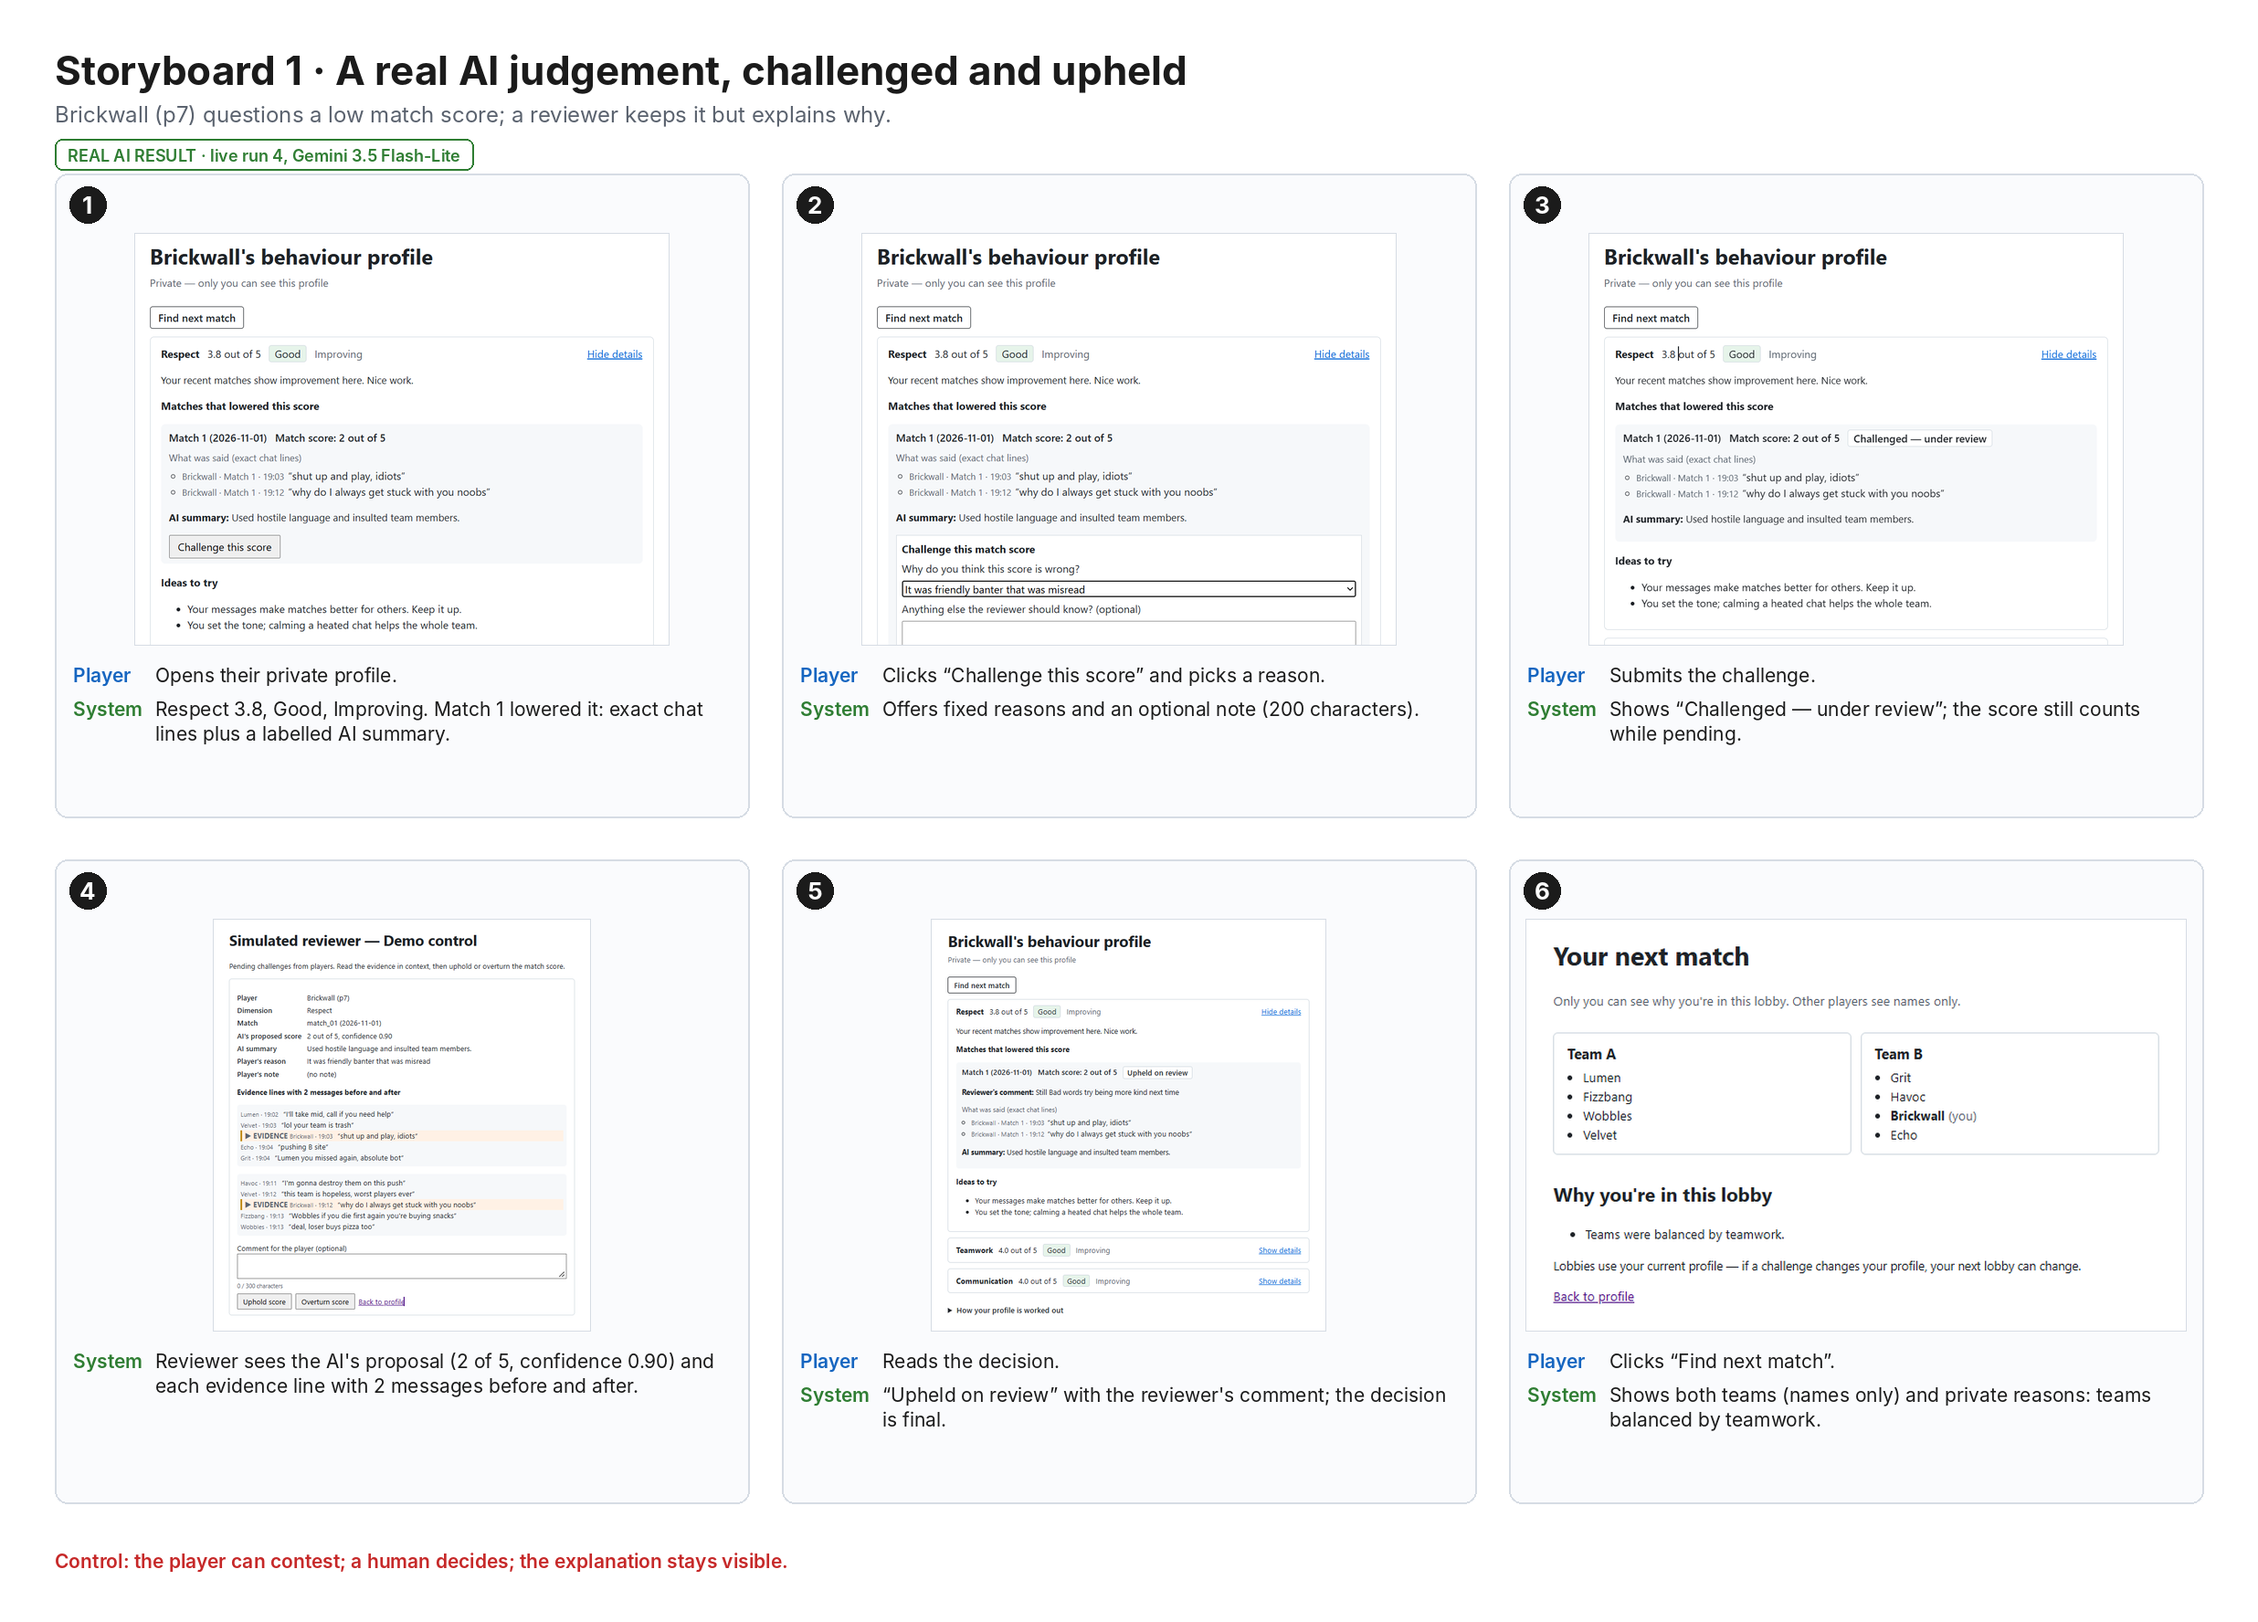
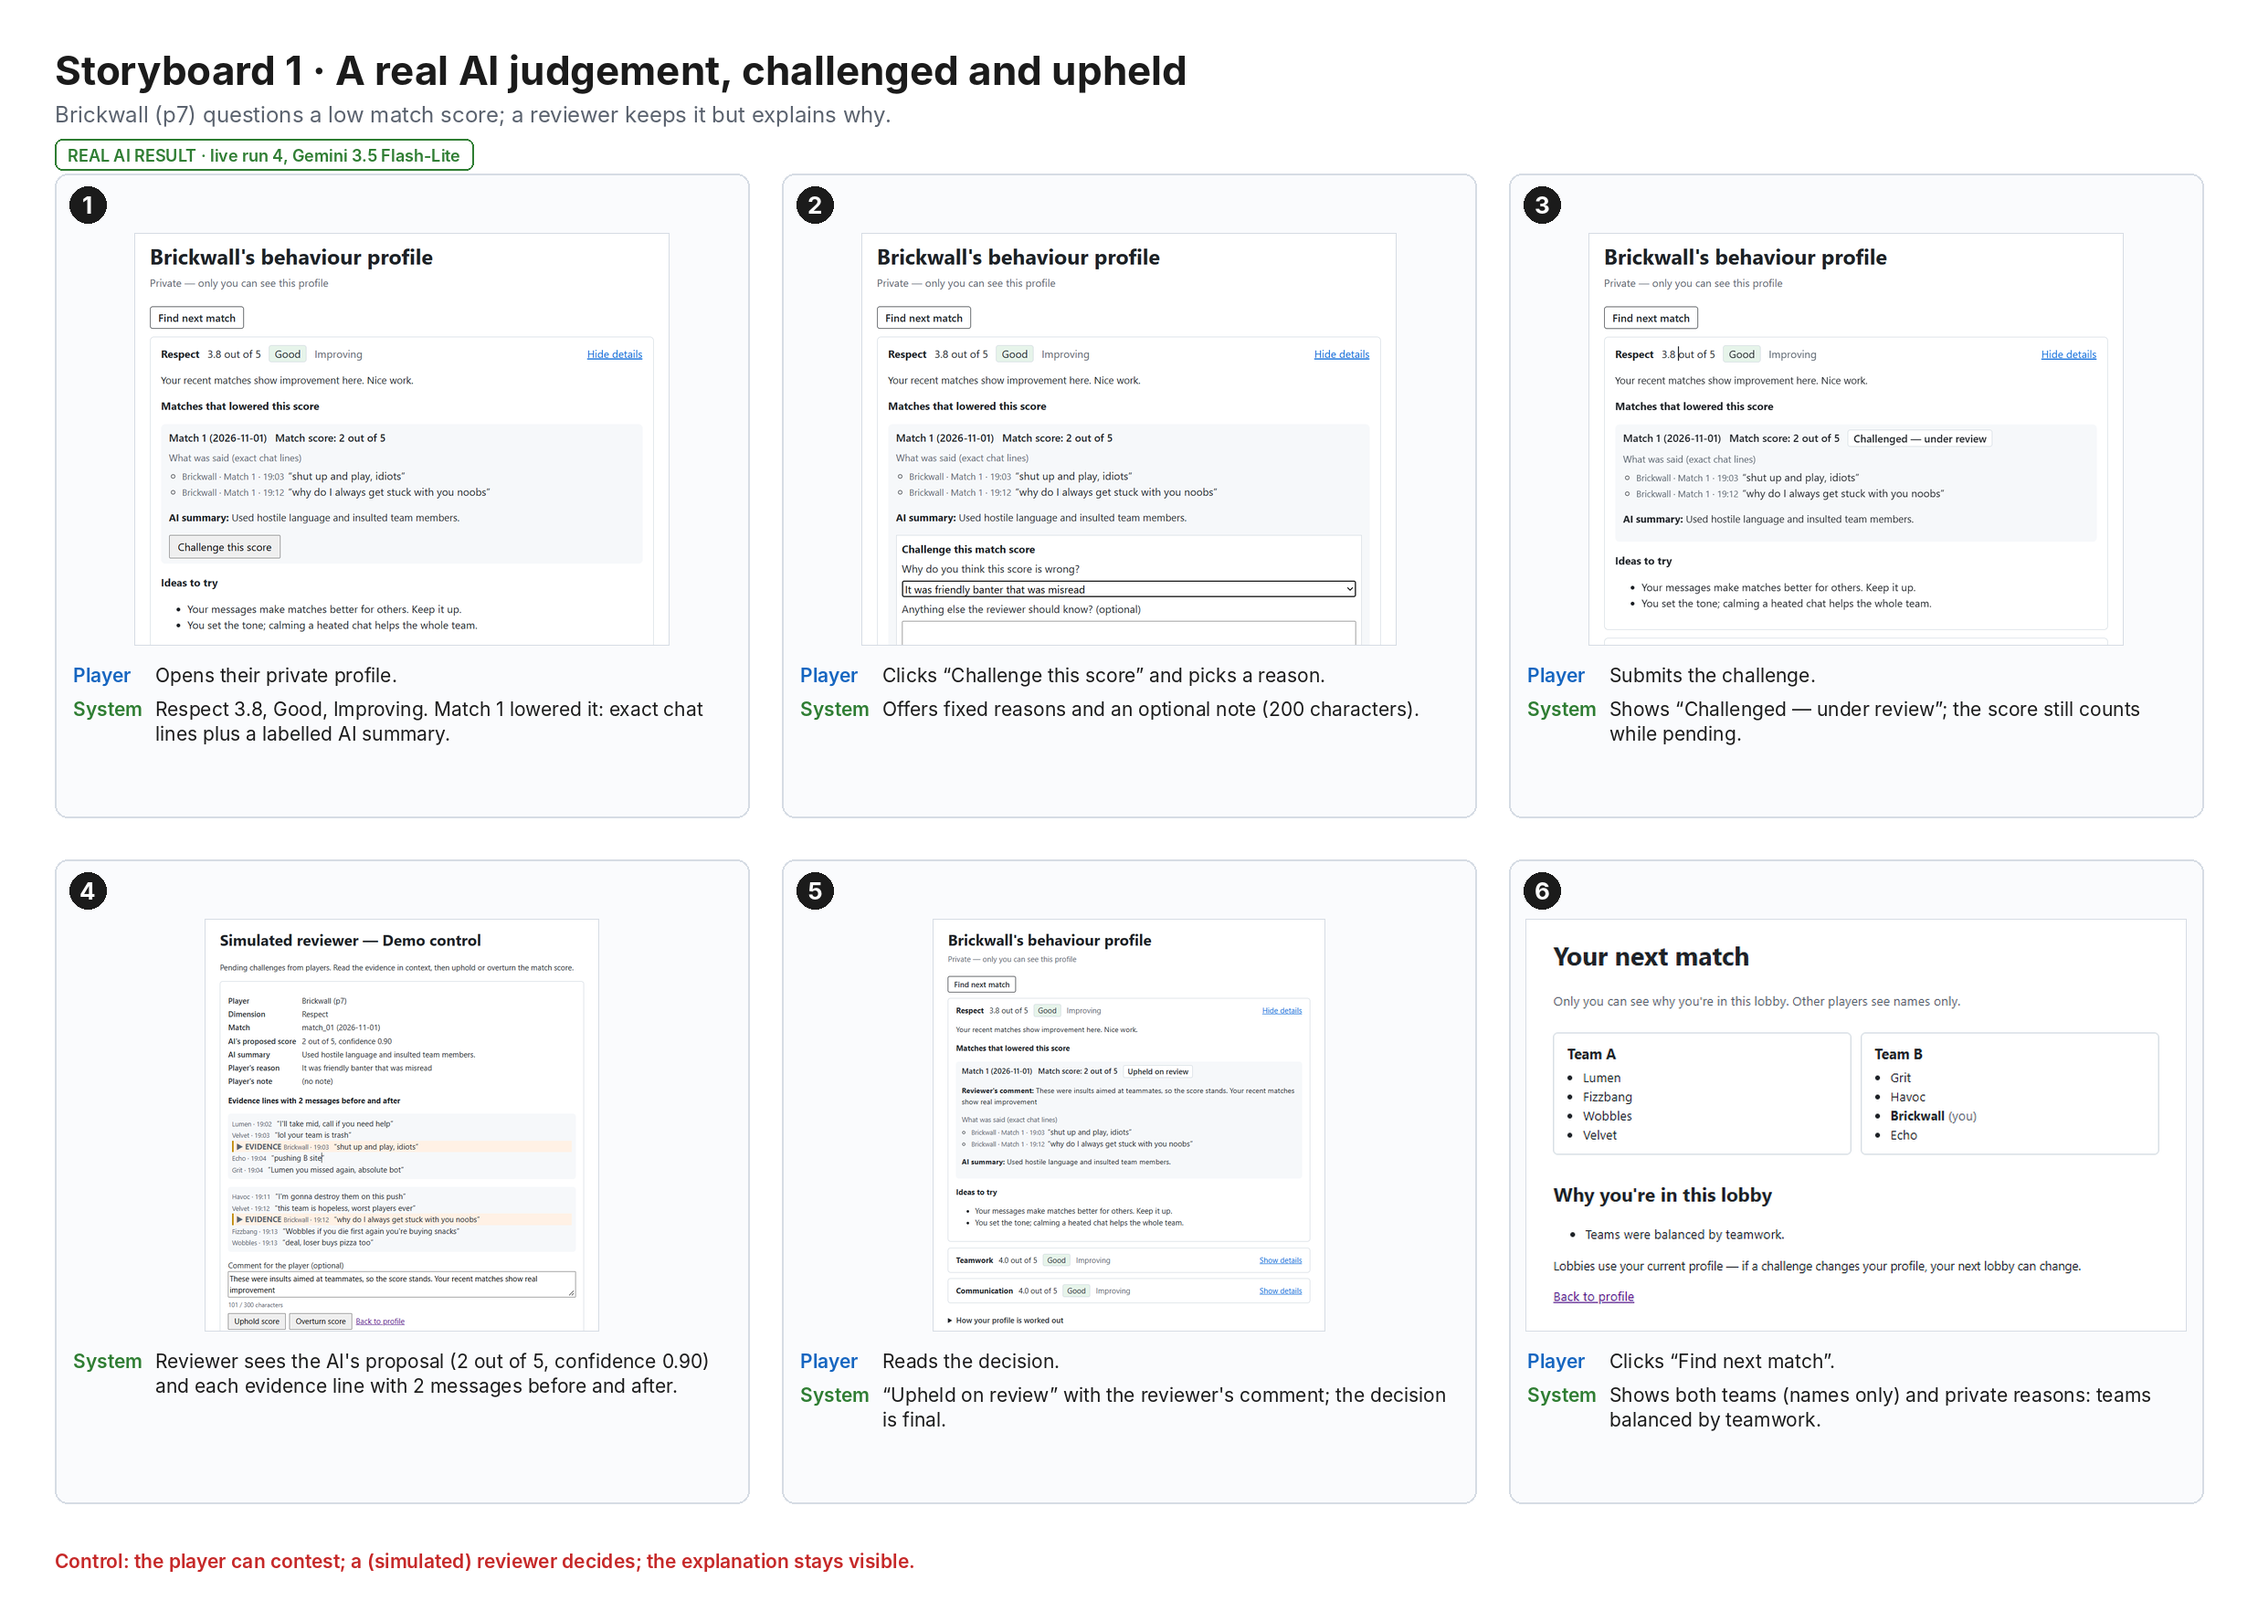
Fix claims found by audit: held-back scores, demo data source, test count, diagram labels

diff --git a/server/src/scoring/pipeline.ts b/server/src/scoring/pipeline.ts
@@ -19,7 +19,7 @@ export async function scoreOneMatch(
   try {
     raw = await withRetry(() => provider.scoreMatch({ matchId: match.id, prompt }), { label: match.id, ...retry });
   } catch (err) {
-    // The call failed, so there is no model output to validate: the whole match goes to review.
+    // The call failed, so there is no model output to validate: the whole match is held back (needs_review) and not counted.
     const reason = `provider call failed: ${describeProviderError(err, retry.secrets)}`;
     return { ...rejectAll(match, reason), rawResponse: null };
   }

diff --git a/docs/build_storyboards.py b/docs/build_storyboards.py
@@ -101,11 +101,11 @@ board("Storyboard 1 · A real AI judgement, challenged and upheld",
       [("s1-01-profile.png", "Opens their private profile.", "Respect 3.8, Good, Improving. Match 1 lowered it: exact chat lines plus a labelled AI summary.", None),
        ("s1-02-challenge-form.png", "Clicks “Challenge this score” and picks a reason.", "Offers fixed reasons and an optional note (200 characters).", None),
        ("s1-03-under-review.png", "Submits the challenge.", "Shows “Challenged — under review”; the score still counts while pending.", None),
-       ("s1-04-reviewer.png", None, "Reviewer sees the AI's proposal (2 of 5, confidence 0.90) and each evidence line with 2 messages before and after.", None),
+       ("s1-04-reviewer.png", None, "Reviewer sees the AI's proposal (2 out of 5, confidence 0.90) and each evidence line with 2 messages before and after.", None),
        ("s1-05-upheld.png", "Reads the decision.", "“Upheld on review” with the reviewer's comment; the decision is final.", None),
        ("s1-06-lobby.png", "Clicks “Find next match”.", "Shows both teams (names only) and private reasons: teams balanced by teamwork.", None)],
       "storyboard-1-upheld.png",
-      "Control: the player can contest; a human decides; the explanation stays visible.")
+      "Control: the player can contest; a (simulated) reviewer decides; the explanation stays visible.")
 
 board("Storyboard 2 · An AI error, challenged and overturned",
       "Havoc (p5) is wrongly marked down for game language; overturning it restores the profile and the lobby explanation.",
@@ -117,4 +117,4 @@ board("Storyboard 2 · An AI error, challenged and overturned",
        ("s2-06-overturned.png", "Returns to the profile.", "“Overturned on review — this match no longer counts”; Respect recalculated to 3.0, Neutral.", None),
        ("s2-07-lobby-after.png", "Finds the next match.", "The Low and fairness messages are gone; same teams, explanation restored.", None)],
       "storyboard-2-overturned.png",
-      "Closed loop: challenge → human review → profile recalculated → next lobby explanation changes.")
+      "Closed loop: challenge → simulated review → profile recalculated → next lobby explanation changes.")

diff --git a/README.md b/README.md
@@ -17,16 +17,16 @@ The authoritative scope is in [docs/scope.md](docs/scope.md).
 
 Implemented
 - An AI scores each player's behaviour profile (Respect, Teamwork, Communication) from their chat history, returning structured JSON: score, confidence, and the message IDs used as evidence.
-- A validator checks the AI output. Invalid output, made-up message IDs, or low confidence are held back from the player's score and marked as awaiting review. Temporary provider errors are retried, and failures are recorded honestly.
+- A validator checks the AI output. Invalid output, made-up message IDs, or low confidence are held back and not counted in the player's score (a reviewer queue for them is planned). Temporary provider errors are retried, and failures are recorded honestly.
 - A private profile screen shows each score with a word label and trend, the matches that lowered it, the exact chat lines behind it, and a labelled AI summary. Low or declining scores open automatically; others stay collapsed.
 - Each score comes with improvement tips (drafted with AI assistance and reviewed by the designer), and the profile explains in plain words how it is worked out, without showing the formula.
 - A player can challenge one score in one match when that match scored 1 or 2. A reviewer upholds or overturns it: an overturned match no longer counts and the score is recalculated; an upheld decision is final and shows the reviewer's comment.
 - A simple matchmaking rule forms lobbies from profiles and explains privately to the player why they were placed in their lobby. Challenge outcomes update the next lobby and its explanation; with only 8 players, the protection rules keep the same teams, so the explanation changes rather than the teammates.
-- A mock mode runs the whole demo without an API key.
+- The demo runs without an API key, on the recorded live results described below. A mock provider can also score the matches without a key, for testing only.
 
 Simulated
 - Players, matches and chat messages come from synthetic, seeded data, not a live game.
-- The scores shown in the demo come from a recorded live AI run (Gemini 3.5 Flash-Lite), or from mock results when no scoring output exists.
+- The scores shown in the demo come from a recorded live AI run (Gemini 3.5 Flash-Lite), committed as `data/demo/run4-match-results.json`; your own `npm run score` output replaces it if present.
 - The human reviewer is a demo page, not a real moderation team.
 - The player pool is a small fixed set of 8 players.
 - An AI scoring error is simulated with a labelled demo control, because the live runs produced no false positives to demonstrate a successful challenge.

diff --git a/docs/scope.md b/docs/scope.md
@@ -2,16 +2,16 @@
 
 Implemented
 - An AI scores each player's behaviour profile (Respect, Teamwork, Communication) from their chat history, returning structured JSON: score, confidence, and the message IDs used as evidence.
-- A validator checks the AI output. Invalid output, made-up message IDs, or low confidence are held back from the player's score and marked as awaiting review. Temporary provider errors are retried, and failures are recorded honestly.
+- A validator checks the AI output. Invalid output, made-up message IDs, or low confidence are held back and not counted in the player's score (a reviewer queue for them is planned). Temporary provider errors are retried, and failures are recorded honestly.
 - A private profile screen shows each score with a word label and trend, the matches that lowered it, the exact chat lines behind it, and a labelled AI summary. Low or declining scores open automatically; others stay collapsed.
 - Each score comes with improvement tips (drafted with AI assistance and reviewed by the designer), and the profile explains in plain words how it is worked out, without showing the formula.
 - A player can challenge one score in one match when that match scored 1 or 2. A reviewer upholds or overturns it: an overturned match no longer counts and the score is recalculated; an upheld decision is final and shows the reviewer's comment.
 - A simple matchmaking rule forms lobbies from profiles and explains privately to the player why they were placed in their lobby. Challenge outcomes update the next lobby and its explanation; with only 8 players, the protection rules keep the same teams, so the explanation changes rather than the teammates.
-- A mock mode runs the whole demo without an API key.
+- The demo runs without an API key, on the recorded live results described below. A mock provider can also score the matches without a key, for testing only.
 
 Simulated
 - Players, matches and chat messages come from synthetic, seeded data, not a live game.
-- The scores shown in the demo come from a recorded live AI run (Gemini 3.5 Flash-Lite), or from mock results when no scoring output exists.
+- The scores shown in the demo come from a recorded live AI run (Gemini 3.5 Flash-Lite), committed as `data/demo/run4-match-results.json`; your own `npm run score` output replaces it if present.
 - The human reviewer is a demo page, not a real moderation team.
 - The player pool is a small fixed set of 8 players.
 - An AI scoring error is simulated with a labelled demo control, because the live runs produced no false positives to demonstrate a successful challenge.

diff --git a/docs/test-results-day3.md b/docs/test-results-day3.md
@@ -155,7 +155,7 @@ Nothing was changed (prompt, data, thresholds) in response to these results.
 
 ## Run 4 (demo data)
 
-Provider: Gemini. Model: `gemini-3.5-flash-lite`. Date: 2026-11-13 (output written 16:58:36 UTC). Prompt v2 (commit a0cf488). Run once to create `output/match-results.json`, which the Day 4 server loads for the demo. Took 27 s; match_02 got one 503 and succeeded on the first retry. 93 dimensions accepted, 3 needs_review. Case E is judged with the revised expectation (no accepted Respect score below 3).
+Provider: Gemini. Model: `gemini-3.5-flash-lite`. Date: 2026-11-13 (output written 16:58:36 UTC). Prompt v2 (commit a0cf488). Run once to create `output/match-results.json`, which the Day 4 server loads for the demo (committed on 15 Nov as `data/demo/run4-match-results.json`). Took 27 s; match_02 got one 503 and succeeded on the first retry. 93 dimensions accepted, 3 needs_review. Case E is judged with the revised expectation (no accepted Respect score below 3).
 
 | Case | Player | Expected | Actual | Match? |
 |---|---|---|---|---|
